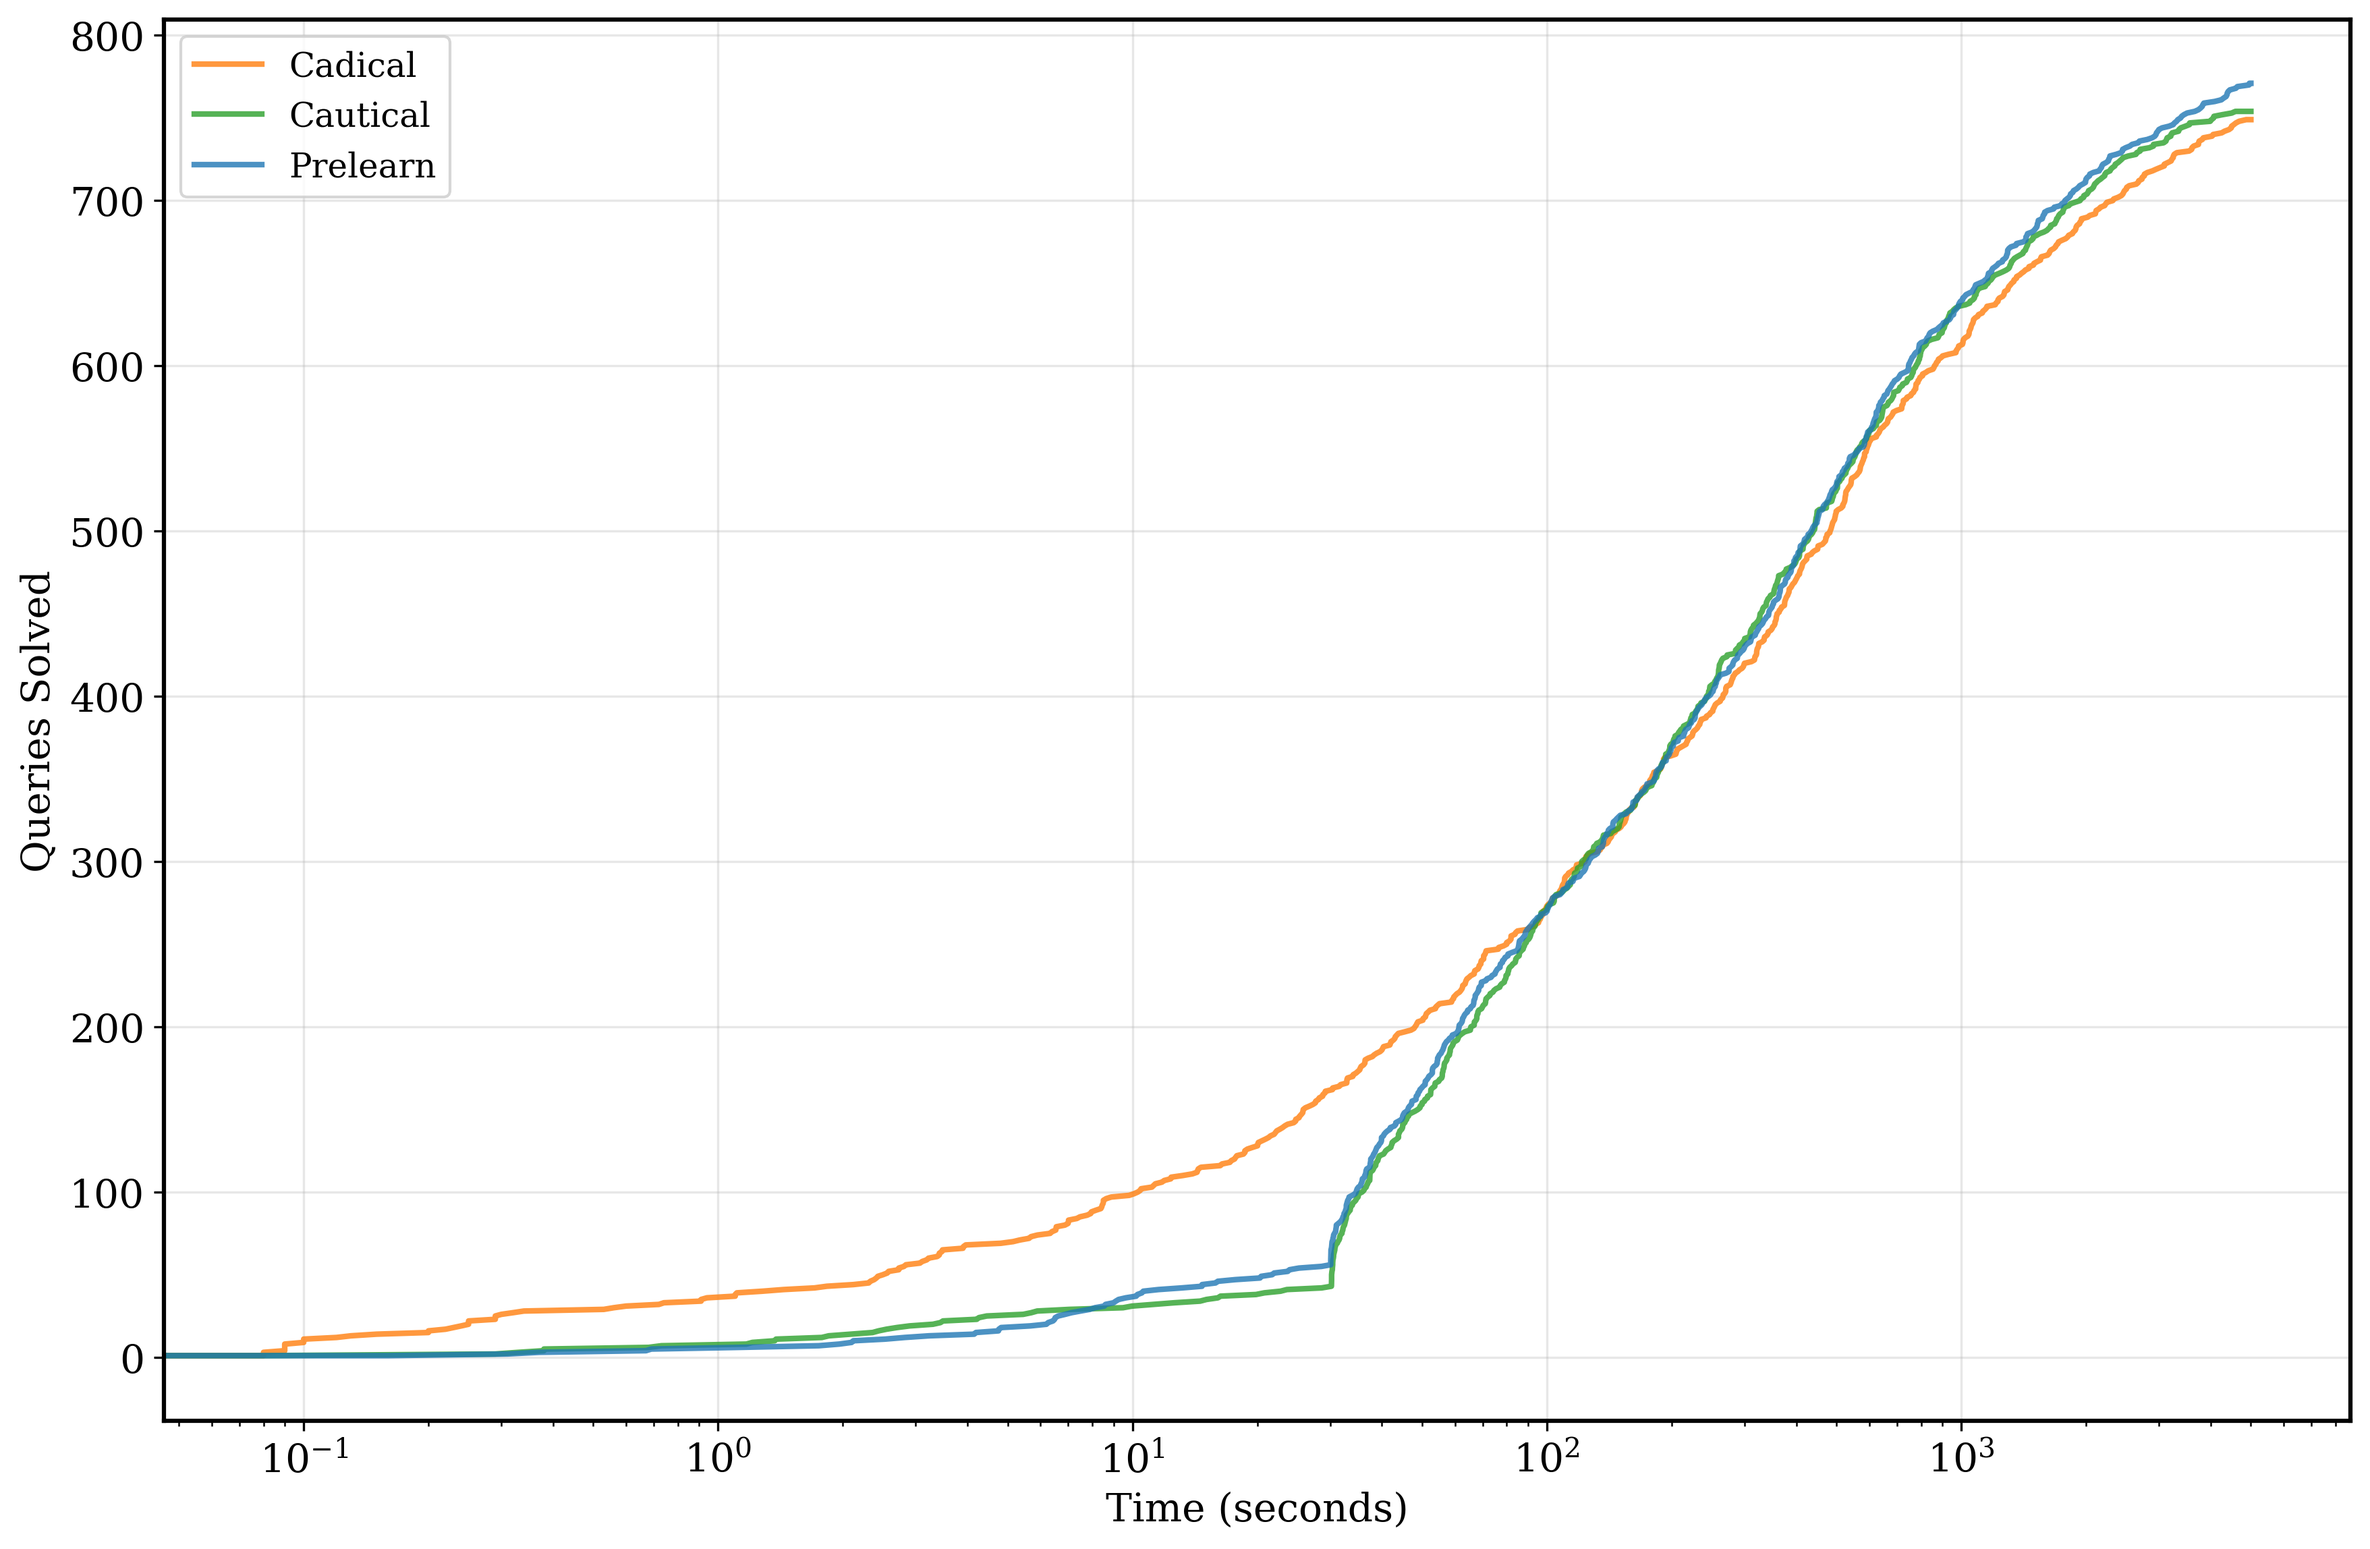
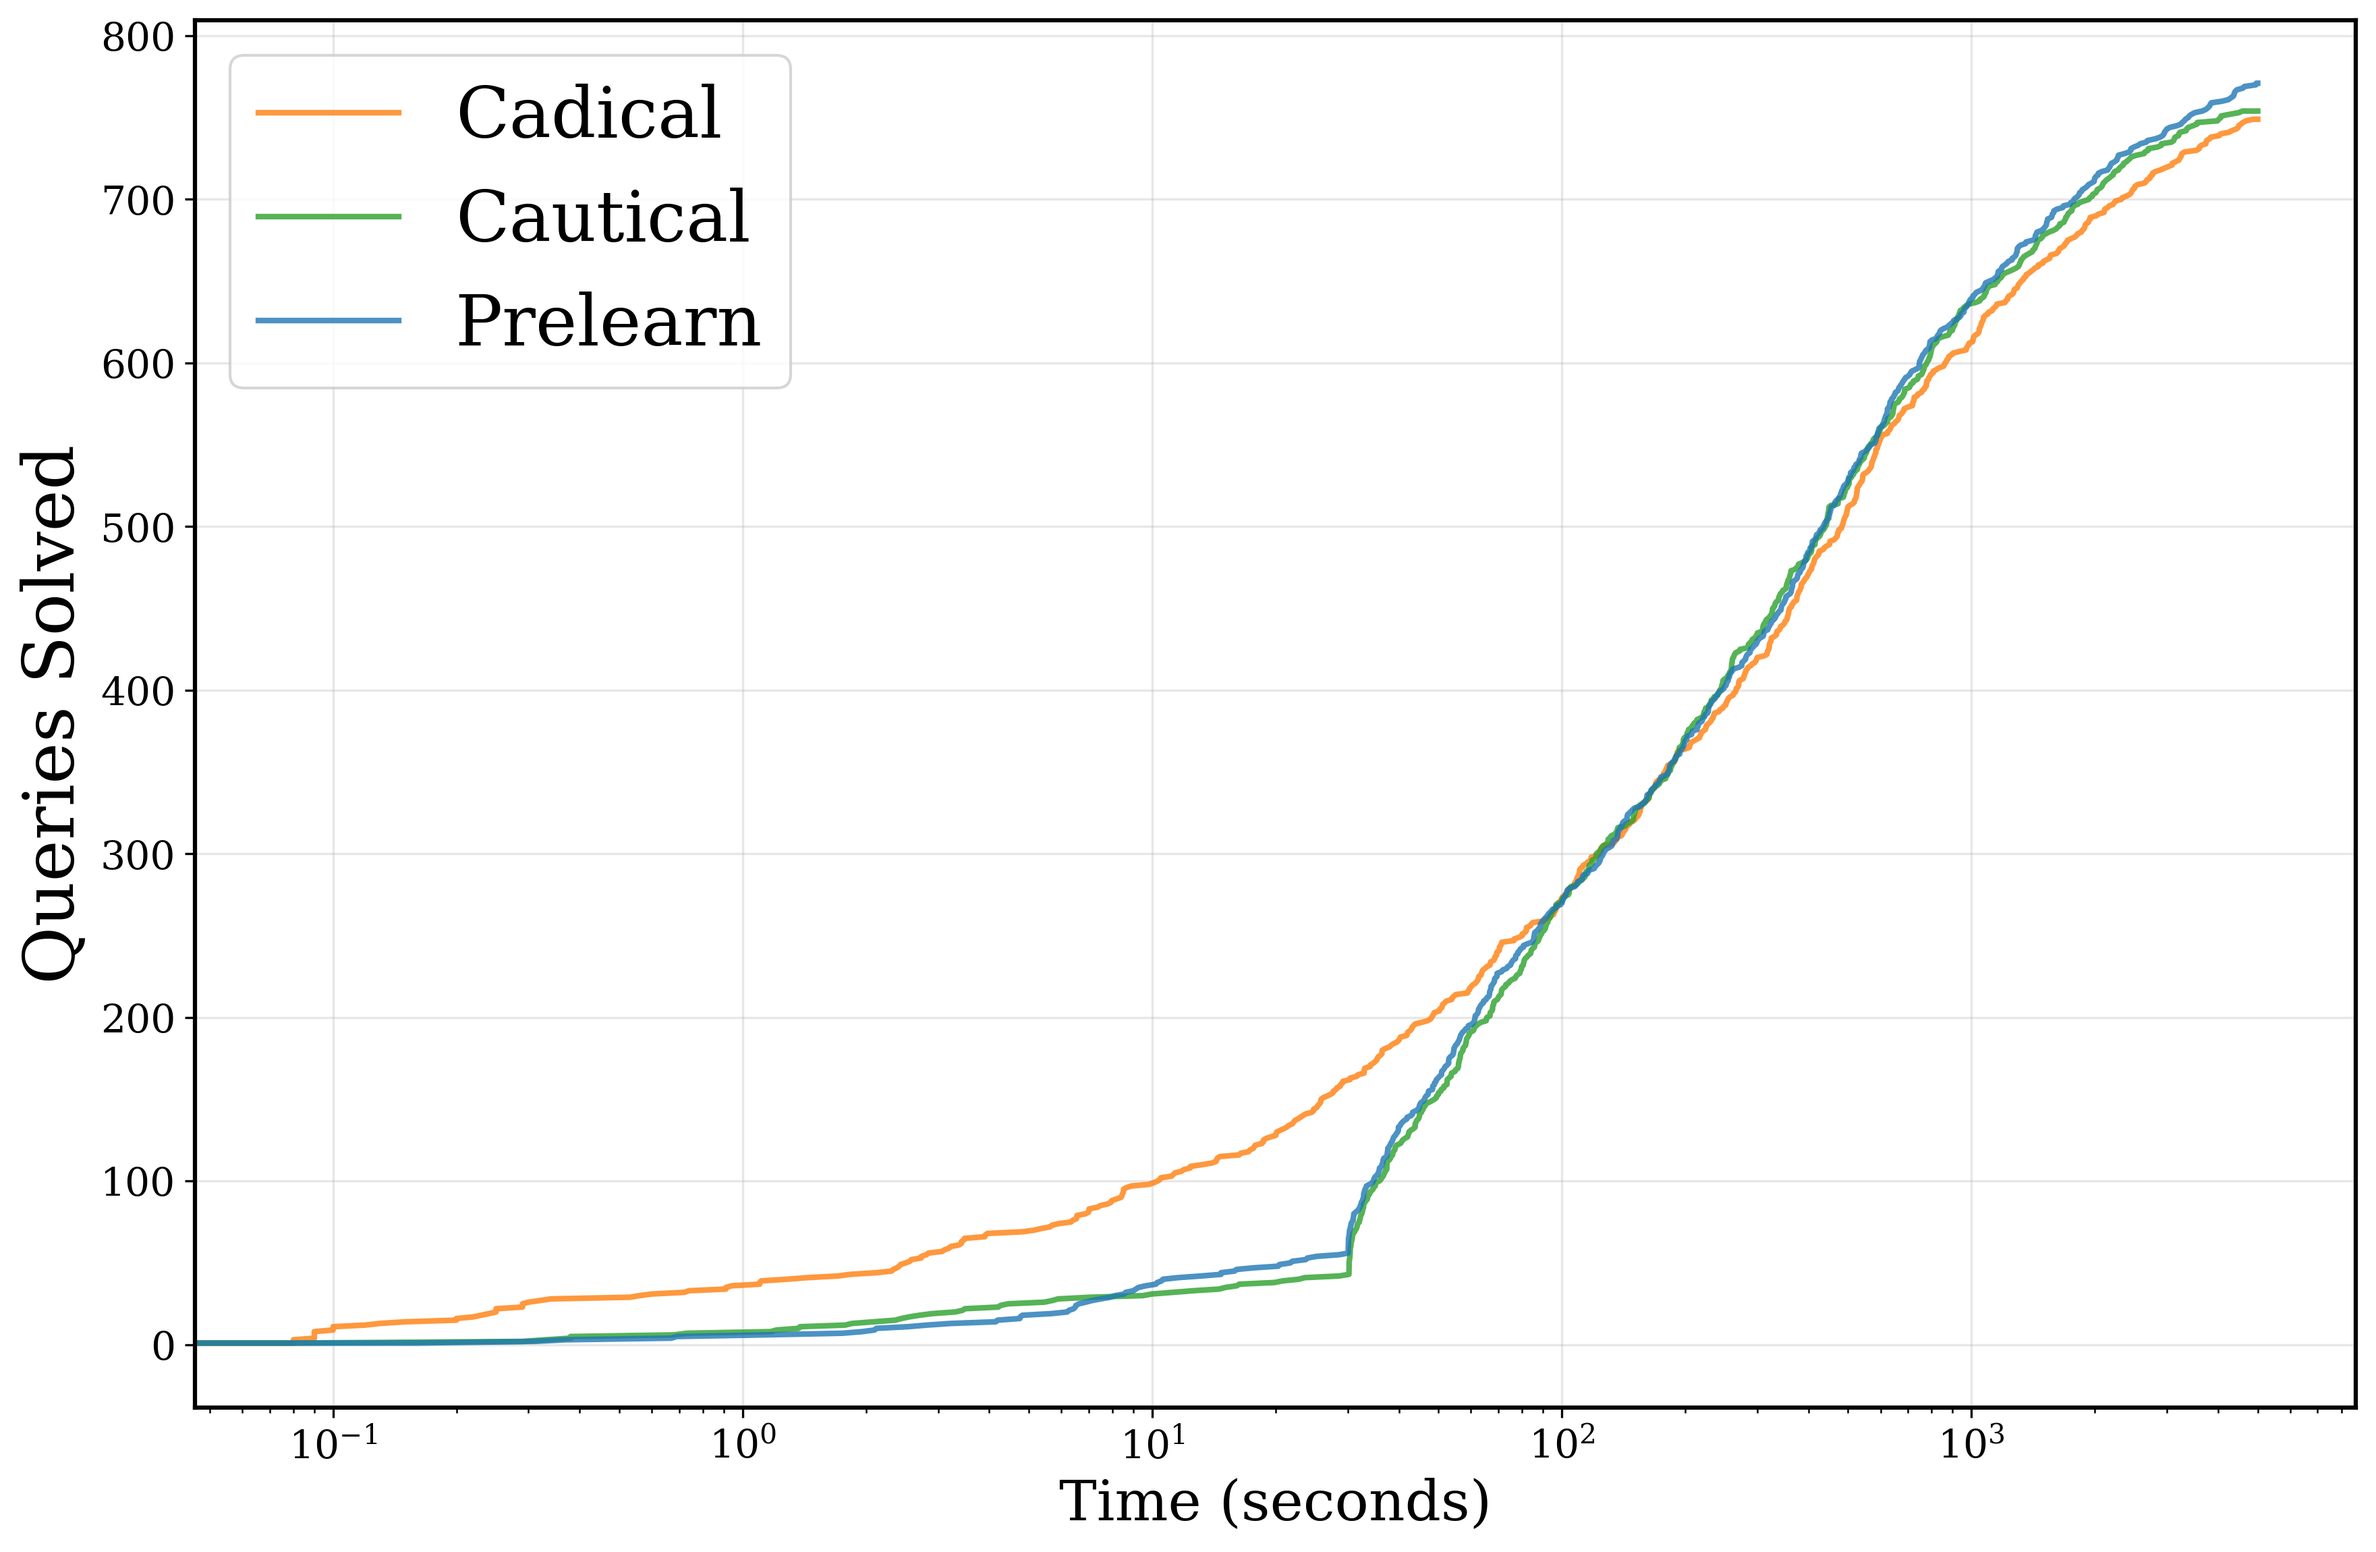
new graphs and back to old PR definition

diff --git a/texs/5.evaluation.tex b/texs/5.evaluation.tex
@@ -212,6 +212,8 @@ demonstrating that it learns useful \pr clauses regardless of the encoding.
 
 \begin{table}[h]
     \centering
+    \captionsetup{position=above}
+    \caption{Number of formulas that \cadical, \prelearn and \tool solve, divided between 0-10k clause and 10k-20M clause formulas, and SAT and UNSAT formulas. For \prelearn and \tool we include the number of benchmarks with \pr clauses learnt, more than $50$ \pr clauses learnt, improved on \cadical by 5\% or more; and solved that \cadical did not solve.}
     \sisetup{table-format=3}        % remove if you are not using siunitx
     \begin{tabular}{lrrrrr}
       \toprule
@@ -238,7 +240,6 @@ demonstrating that it learns useful \pr clauses regardless of the encoding.
       \; Unique from \cadical &   0 &  18 &   9 &   9 & 36 \\
       \bottomrule
     \end{tabular}
-    \caption{Number of formulas that \cadical, \prelearn and \tool solve, divided between 0-10k clause and 10k-20M clause formulas, and SAT and UNSAT formulas. For \prelearn and \tool we include the number of benchmarks with \pr clauses learnt, more than $50$ \pr clauses learnt, improved on \cadical by 5\% or more; and solved that \cadical did not solve.}
     \label{tab:solver-stats}
   \end{table}
 
@@ -446,6 +447,8 @@ benchmarks:
 
 \begin{table}[h]
     \centering
+    \captionsetup{position=above}
+    \caption{Overview of benchmark families used in evaluation}
     \begin{tabular}{lll}
         \hline
         Benchmark Family & Number of Clauses  & \tool \# \pr  \\
@@ -459,7 +462,7 @@ benchmarks:
         test\_configuration & 31K-64K & 0-0 \\
         \hline
     \end{tabular}
-    \caption{Overview of benchmark families used in evaluation}
+    
     \label{tab:benchmark-families}
 \end{table}
 

diff --git a/texs/2.background.tex b/texs/2.background.tex
@@ -122,9 +122,9 @@ clause $C \in \formula'$.
 
 % The propagation redundant (\pr)
 
-\textbf{Propagation Redundant:} While resolution is complete for propositional
-logic, more powerful proof steps can yield shorter proofs and faster runtimes.
-One such step is based on a type of redundant clause called a \pr clause.
+% \textbf{Propagation Redundant:} While resolution is complete for propositional
+% logic, more powerful proof steps can yield shorter proofs and faster runtimes.
+% One such step is based on a type of redundant clause called a \pr clause.
 
 \begin{definition}~\label{def:pr}[Propagation Redundant (\pr) clauses~\cite{prclauses}]
     For formula $\formula$, clause $C$ and assignment $\alpha$ blocked by $C$,
@@ -135,6 +135,17 @@ $$
     \formula|_\alpha \impunit \formula|_\omega.
 $$
 \end{definition}
+
+% \begin{definition}~\label{def:pr}[Propagation Redundant (\pr) clauses~\cite{prclauses}]
+
+%     For formula $\formula$, we say that clause $C$ is propagation redundant
+%     (PR) if there exists a \emph{witness} assignment $\omega$ such that
+%     $\omega$ satisfies $C$ and
+
+% $$
+%     \formula \land \lnot C \impunit (\formula \land C)|_\omega.
+% $$
+% \end{definition}
 
 
 Informally, a clause $C$ is $\pr$ if every assignment that satisfies
